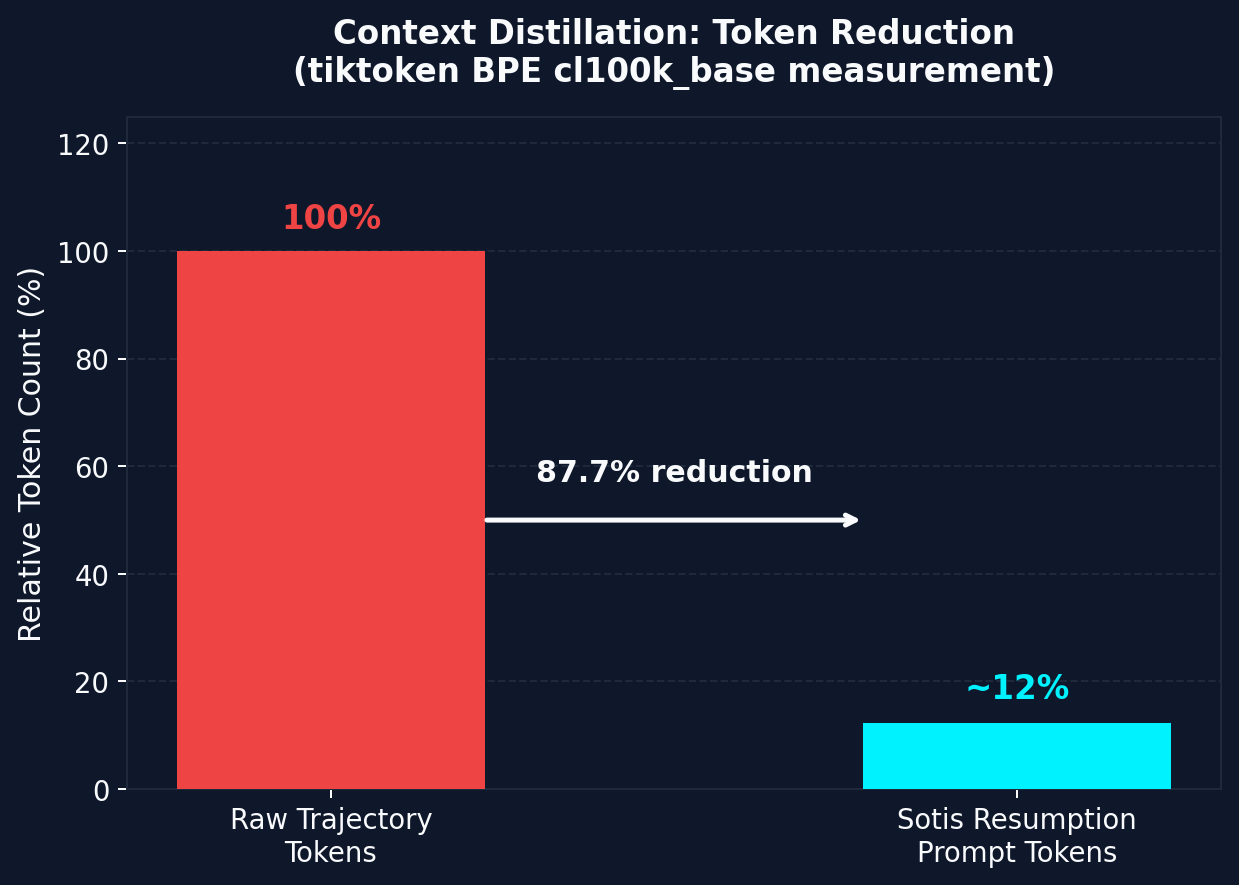
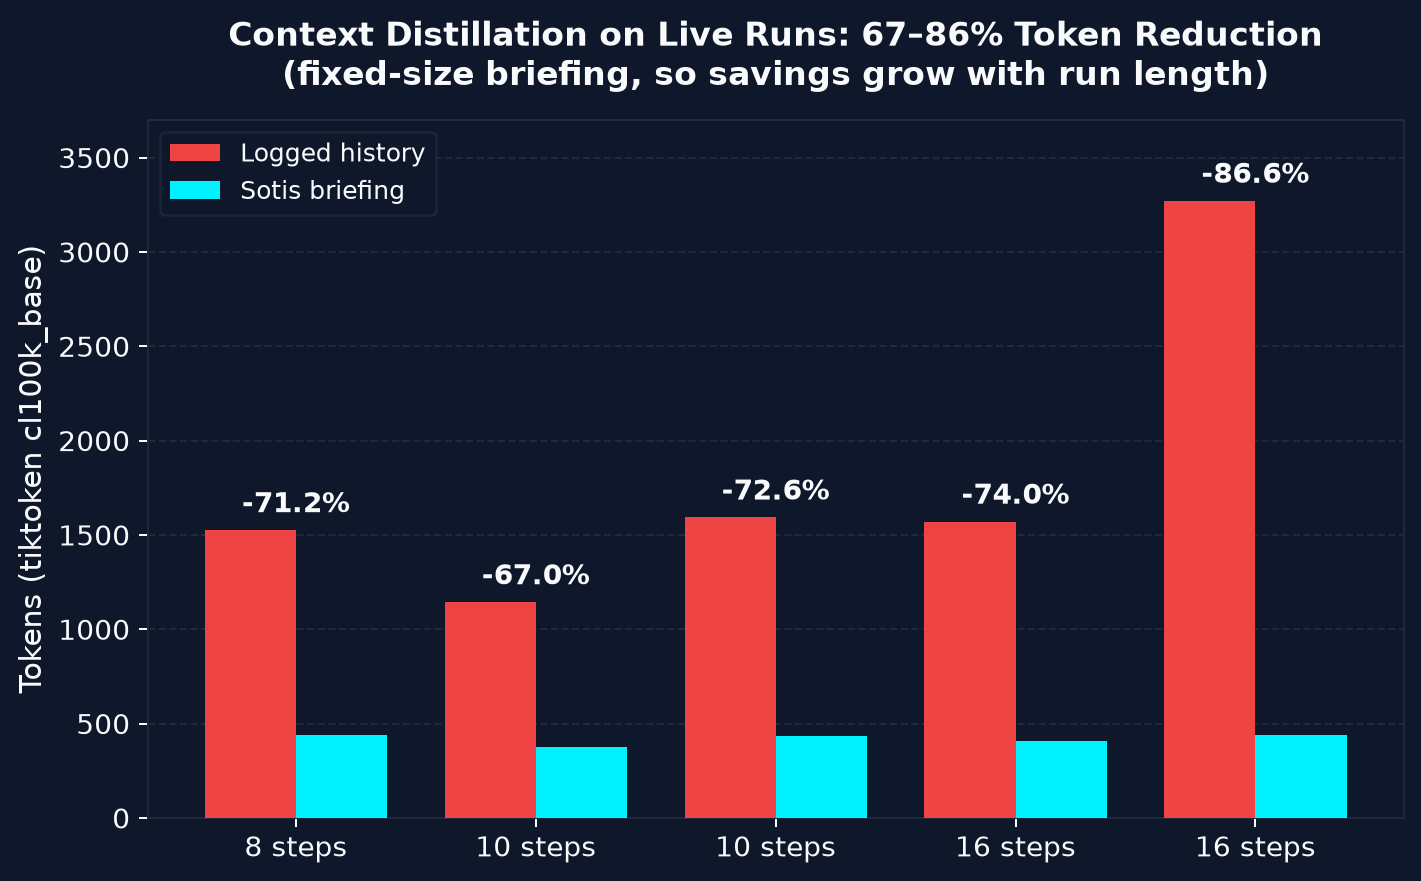
docs: correct claims to match the code and measured data
- Token reduction: replace 86.14%/87.73% with the range measured by
  replaying ContextResetter.distill() over live runs (67-86% at 8-16 steps);
  note the briefing's fixed cost makes resets net-negative on very short runs.
  Chart 5 now plots those live runs instead of a hard-coded 87.7%.
- Detection: report the gauntlet as 3/3 meltdowns caught with 1 false
  positive in 3 healthy runs, instead of "100% true positive".
- Test count: 163 unit tests (was 159 / 127).
- SotisGuard.reset() only clears detector state; document where rollback
  and distillation actually happen (SotisRuntime / SotisLangGraphGuard, or
  CheckpointManager + ContextResetter in a custom loop).
- Remove the stale claim that Claude Code / Codex expose no hooks.

diff --git a/visualize_benchmarks.py b/visualize_benchmarks.py
@@ -160,31 +160,32 @@ plt.close()
 print("OK charts/4_latency_overhead.png")
 
 
-# ── Chart 5: Token reduction — raw vs distilled ────────────────────────────────
-fig, ax = plt.subplots(figsize=(7, 5))
+# ── Chart 5: Token reduction — logged history vs distilled briefing ───────────
+# Measured by replaying ContextResetter.distill() over the live LangGraph runs in
+# logs/session_sotis-lg-*.json (runs of 8+ steps at their meltdown point).
+# The briefing is a roughly fixed size, so the saving grows with run length.
+fig, ax = plt.subplots(figsize=(8, 5))
 apply_base_style(fig, ax)
 
-labels = ["Raw Trajectory\nTokens", "Sotis Resumption\nPrompt Tokens"]
-values = [100, 12.27]
-colors = [BASELINE, SOTIS]
+run_steps  = [8, 10, 10, 16, 16]
+history    = [1526, 1144, 1593, 1571, 3272]   # logged history tokens
+distilled  = [439, 378, 437, 408, 440]        # resumption briefing tokens
 
-bars = ax.bar(labels, values, color=colors, width=0.45, zorder=3)
+x = np.arange(len(run_steps))
+w = 0.38
+ax.bar(x - w/2, history, width=w, color=BASELINE, zorder=3, label="Logged history")
+ax.bar(x + w/2, distilled, width=w, color=SOTIS, zorder=3, label="Sotis briefing")
 
-# Labels above bars (in data coordinates only)
-ax.text(bars[0].get_x() + bars[0].get_width()/2, 103,
-        "100%", ha="center", va="bottom", color=BASELINE, fontsize=13, fontweight="bold")
-ax.text(bars[1].get_x() + bars[1].get_width()/2, 15.5,
-        "~12%", ha="center", va="bottom", color=SOTIS, fontsize=13, fontweight="bold")
+for i, (h, d) in enumerate(zip(history, distilled)):
+    ax.text(x[i], h + 60, f"-{(1 - d / h) * 100:.1f}%", ha="center", va="bottom",
+            color=TEXT, fontsize=11, fontweight="bold")
 
-# Arrow and label in data coordinates
-ax.annotate("", xy=(0.78, 50), xytext=(0.22, 50),
-            arrowprops=dict(arrowstyle="->", color=TEXT, lw=2))
-ax.text(0.5, 56, "87.7% reduction", ha="center", va="bottom",
-        color=TEXT, fontsize=12, fontweight="bold")
-
-ax.set_ylabel("Relative Token Count (%)", fontsize=12)
-ax.set_ylim(0, 125)
-ax.set_title("Context Distillation: Token Reduction\n(tiktoken BPE cl100k_base measurement)",
+ax.set_xticks(x)
+ax.set_xticklabels([f"{s} steps" for s in run_steps])
+ax.set_ylabel("Tokens (tiktoken cl100k_base)", fontsize=12)
+ax.set_ylim(0, 3700)
+ax.legend(facecolor=BG, edgecolor=GRID, labelcolor=TEXT, fontsize=10, loc="upper left")
+ax.set_title("Context Distillation on Live Runs: 67–86% Token Reduction\n(fixed-size briefing, so savings grow with run length)",
              fontsize=13, fontweight="bold", pad=14)
 
 fig.tight_layout()

diff --git a/README.md b/README.md
@@ -34,13 +34,10 @@ resumes it.
 - ✅ **LangGraph agents** — drop in `SotisLangGraphGuard` as a guard node
   ([USAGE.md](https://github.com/Shaurya-34/Sotis/blob/main/USAGE.md))
 - ✅ **Custom ReAct / tool-calling loops** — wrap your loop with `SotisGuard`
+  for detection, and wire recovery with `CheckpointManager` + `ContextResetter`
+  (or use the built-in `SotisRuntime`)
 - ✅ **Any LLM provider** — OpenAI, Anthropic, DeepSeek, Google, or
   OpenAI-compatible endpoints (Groq, OpenRouter)
-
-Sotis is **not** a plugin for closed agents you don't control — e.g. Claude
-Code or Codex. Those expose no hook into their loop, so the rollback/reset
-intervention isn't possible there. If you're building the agent, Sotis fits;
-if you're using someone else's finished agent, it doesn't.
 
 ---
 
@@ -110,8 +107,17 @@ for step in range(max_steps):
     meltdown = guard.watch(action.name, action.args, result.summary)
 
     if meltdown:
-        guard.reset()  # rolls back files, distills context, resumes cleanly
+        guard.reset()  # clears detector state; recovery is below
 ```
+
+`SotisGuard` is detection only. `reset()` clears the detectors' sliding windows
+so the next steps are judged fresh; it does not touch your files or your
+agent's context. Recovery (rolling tracked files back to the last good
+checkpoint, replacing the history with a distilled resumption briefing, and
+enforcing the 2-reset cap) is done for you by `SotisLangGraphGuard` and
+`SotisRuntime`. In a custom loop, wire it yourself with `CheckpointManager`
+(`track()` before the subtask, `rollback()` on meltdown) and
+`ContextResetter.distill()` to build the briefing.
 
 ### What it looks like in practice
 
@@ -172,7 +178,7 @@ guard = SotisGuard(entropy_config=EntropyConfig(hard_threshold=2.7))
 | `2.0` | Good balance for agents using 3-4 tools regularly. |
 | `2.7` | Permissive — only fires on genuine chaotic switching across 6+ tools. |
 
-Validated in the [detection gauntlet](https://github.com/Shaurya-34/Sotis/blob/main/ExperimentLog/real_world_validation/test5_gauntlet_20260529_212356.txt): the default fired a false positive on healthy diverse work, raising to 2.7 eliminated it while keeping 100% true-positive detection.
+Validated in the [detection gauntlet](https://github.com/Shaurya-34/Sotis/blob/main/ExperimentLog/real_world_validation/test5_gauntlet_20260529_212356.txt): the default fired a false positive on healthy diverse work, raising to 2.7 eliminated it while still catching all 3 meltdown scenarios.
 
 **Beyond the fixed threshold, three opt-in detectors** (full details in
 [USAGE.md](https://github.com/Shaurya-34/Sotis/blob/main/USAGE.md)):
@@ -207,7 +213,7 @@ Sotis intervenes *during* execution. It intercepts spiraling tool calls, rolls b
 | **Token-Spike Signal** | Corroborates a meltdown when tokens/step suddenly jump |
 | **Workspace Density Guard** | Detects infinite same-file edit cycles |
 | **Verified-Checkpoint Reset** | Rolls back to a state proven good by your invariant, not just the last snapshot |
-| **Transparent Reset** | Git-diff checkpointing + distilled context rebuild (~86% token savings) |
+| **Transparent Reset** | Git-diff checkpointing + distilled context rebuild (up to ~86% token savings on longer runs) |
 | **Graceful Degradation** | GDS scoring preserves partial progress across resets |
 | **LangGraph Integration** | Native guard node — intercepts state, rolls back files |
 | **LLM Support** | OpenAI, Anthropic, DeepSeek, Google, any OpenAI-compatible endpoint |
@@ -236,12 +242,12 @@ Four key findings from the paper that Sotis directly addresses:
 | Metric | Result |
 |---|---|
 | Entropy + loop detection latency | < 0.2ms per step |
-| Context distillation token reduction | 86.14% (BPE cl100k_base) |
-| Test suite | 159 tests passing |
+| Context distillation token reduction | 67–86% on live runs of 8–16 steps (BPE cl100k_base, vs. the logged history). The briefing is a fixed ~250–440 tokens, so on runs shorter than ~5 steps a reset costs tokens rather than saving them |
+| Test suite | 163 unit tests passing |
 | Live recovery | Verified on circular-import and AST recursive-loop traps |
 | Verified-checkpoint rollback (live) | On a real Groq Llama-3.3-70B run, rolled back to a verified-good checkpoint, not the corrupt snapshot ([log](https://github.com/Shaurya-34/Sotis/blob/main/ExperimentLog/circular%20import%20trap/run_groq_llama70b_verified_rollback_20260605.txt)) |
 | Local model validation (mistral:latest via Ollama) | Caught a real TOOL_LOOP meltdown and corrected agent behavior after reset |
-| Detection accuracy (6-scenario gauntlet) | 100% true positive rate, 0% false negatives |
+| Detection (6-scenario gauntlet) | Caught all 3 meltdown scenarios (0 misses); 1 false positive in 3 healthy scenarios at the default threshold, removed by raising it to 2.7 |
 | Total API cost for full validation suite | < $0.01 (Groq free tier) |
 
 Full empirical ledger: [`performance_metrics.txt`](https://github.com/Shaurya-34/Sotis/blob/main/performance_metrics.txt)

diff --git a/ARCHITECTURE.md b/ARCHITECTURE.md
@@ -77,7 +77,7 @@ Sotis uses three complementary, lightweight monitors in the hot-path (averaging 
 *   **Baselines & Rollbacks**: If a meltdown occurs, Sotis automatically rolls back all tracked files to their last known stable subtask baseline. This prevents the agent from inheriting syntactically broken files or circular dependency traps upon resumption.
 
 ### 3. Context Distillation (Resumption Prompting)
-*   **~87% Token Reduction**: Distillation yields approximately **87.73%** reduction in token overhead under standard large-horizon trajectories, verified using OpenAI's `cl100k_base` BPE tokenizer (`tiktoken` library). Sotis completely prunes the message history (using LangGraph `RemoveMessage` signals) and replaces it with a clean, structured briefing.
+*   **Up to ~86% Token Reduction**: On live agent runs of 8–16 steps, the distilled briefing is **67–86%** smaller than the logged history (measured with OpenAI's `cl100k_base` BPE tokenizer via `tiktoken`). The briefing has a fixed cost of ~250–440 tokens, so the saving grows with trajectory length and is negative on very short runs (under ~5 steps). Sotis completely prunes the message history (using LangGraph `RemoveMessage` signals) and replaces it with a clean, structured briefing.
 *   **Resumption System Prompt**: Synthesizes a fresh, hyper-compact resumption briefing that injects:
     1.  A friendly notification of why the reset occurred.
     2.  The original high-level task goal.
@@ -129,7 +129,7 @@ f:\Sotis/
 │       ├── runner.py           # scientific comparison runner (Baseline vs Sotis k=3)
 │       └── tasks.py            # domain-aware task generators (short, med, long, very_long)
 │
-└── tests/                      # High-coverage verification suite (127 passed tests)
+└── tests/                      # Verification suite (163 unit tests passing)
     ├── run_live_document_handling.py  # PDF/XLSX vector haystack and corruption stress test
     ├── run_live_langgraph_evaluation.py# Full LangGraph graph stress testing
     ├── run_live_web_research.py    # Offline/online web-research simulation
